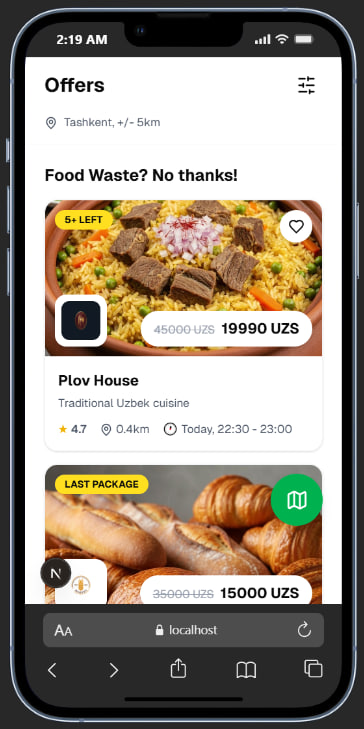
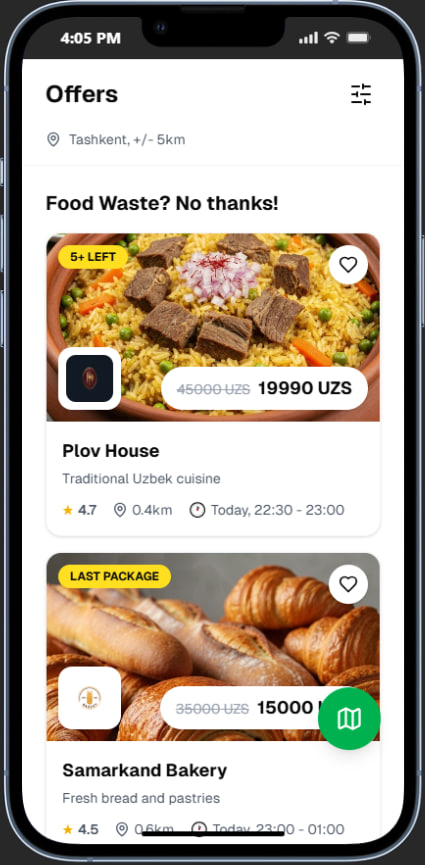
fix: better phone screenshot

diff --git a/frontend/app/page.tsx b/frontend/app/page.tsx
@@ -113,7 +113,7 @@ export default function LandingPage() {
 
               <div className="relative bg-gradient-to-br from-green-50 to-green-100 rounded-3xl p-6 sm:p-8 shadow-lg hover:shadow-xl transition-all duration-500 ease-in-out">
                 <Image
-                  src="/phone.jpg"
+                  src="/phone.png"
                   alt="Qopchiq App Screenshot"
                   width={300}
                   height={300}
